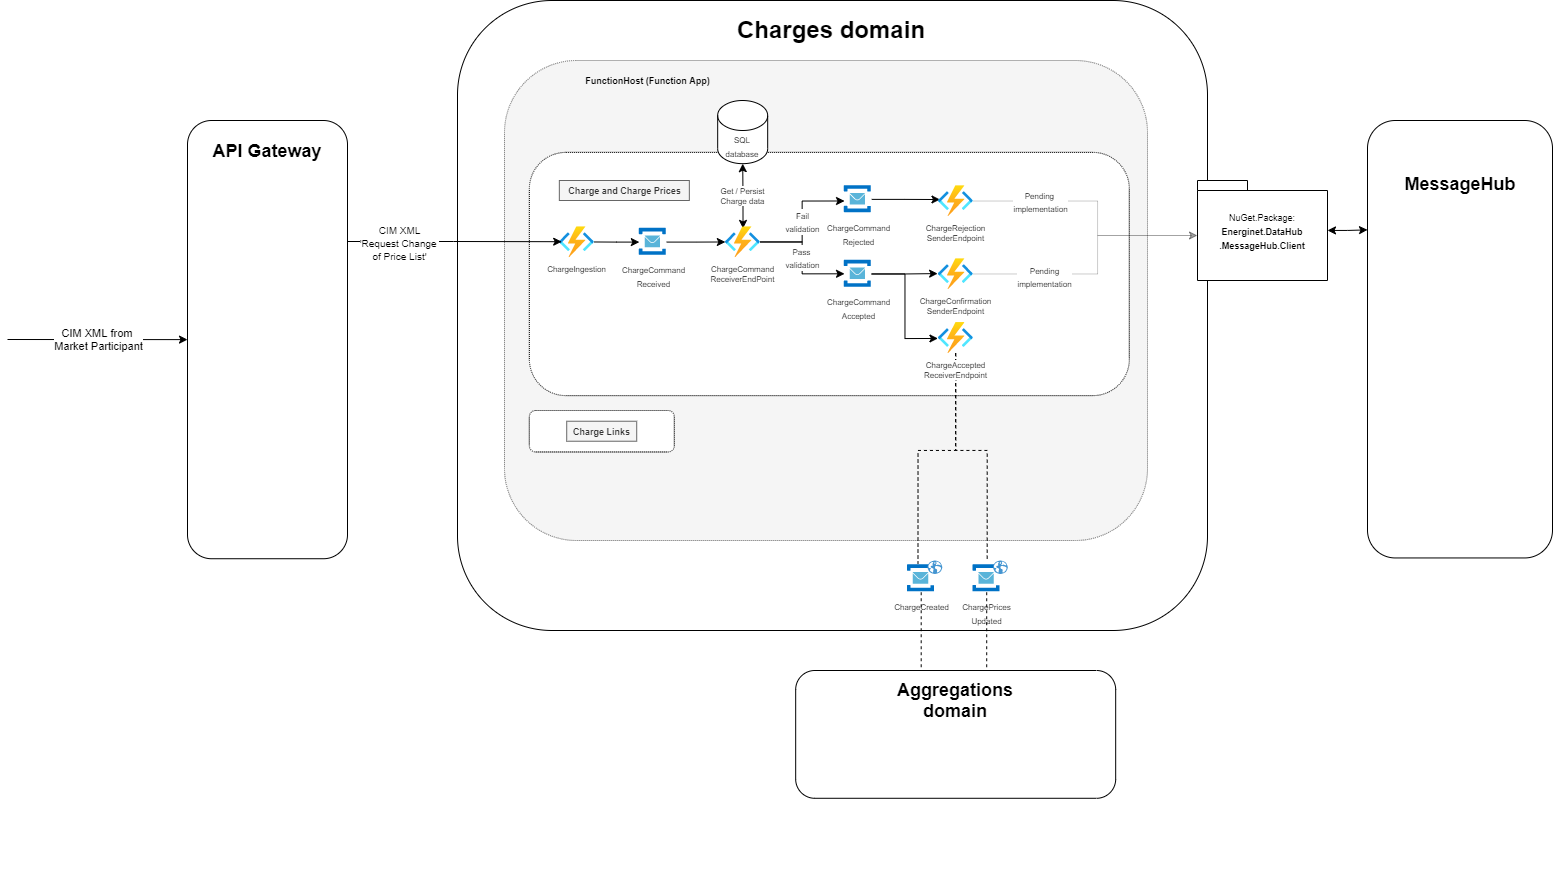
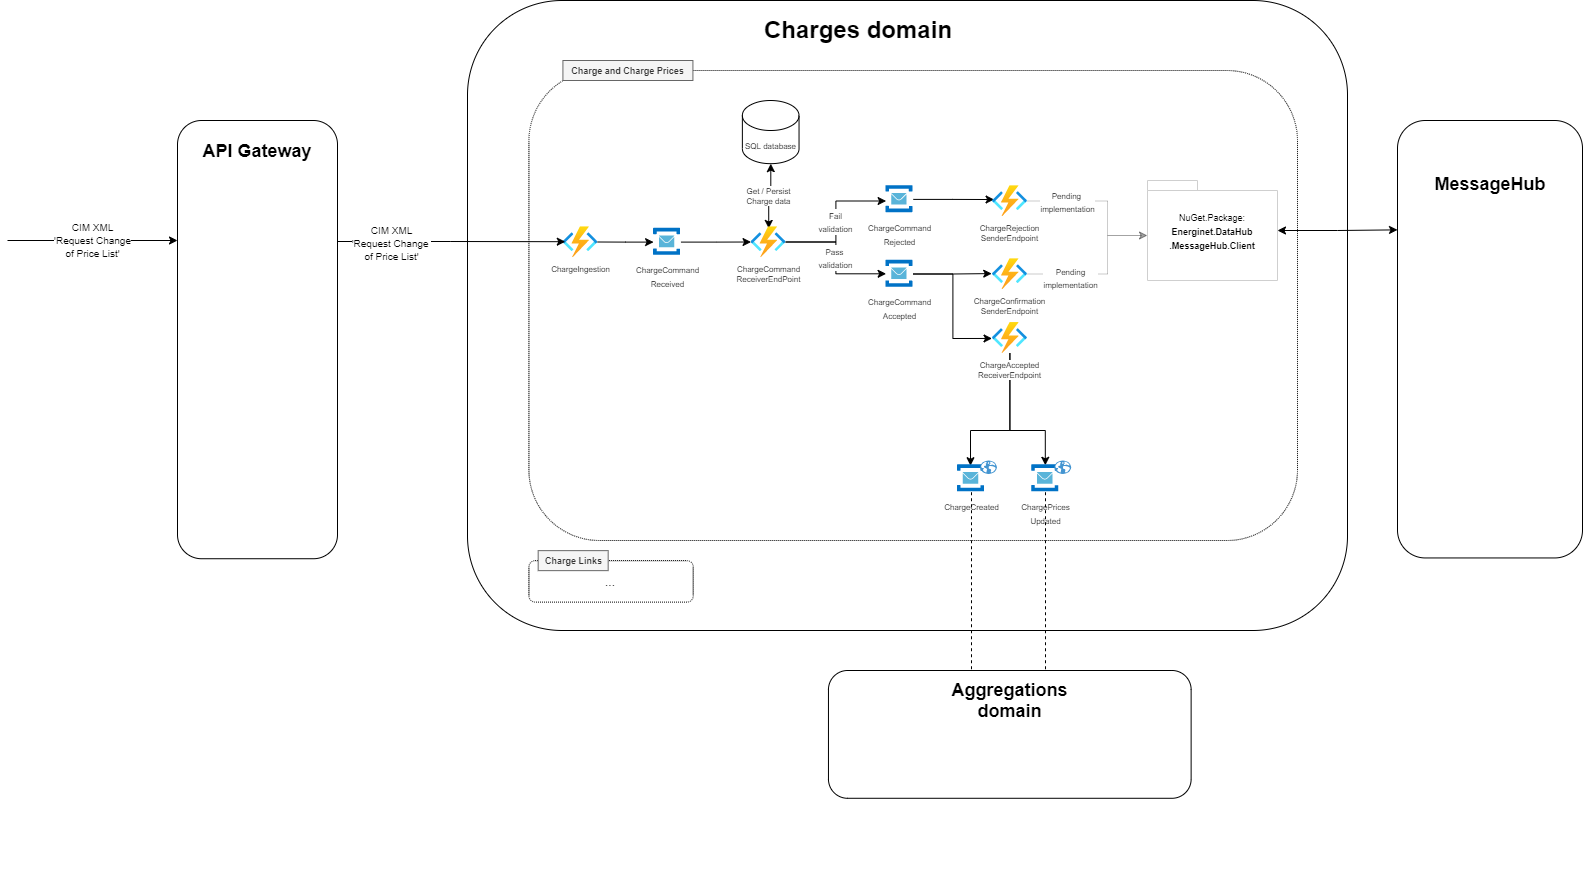
docs: Update arch diagram for Charge Links so it displays the CreateDefaultChargeLinks request-reply setup (#831)
Charge Links architecture diagram has been aligned with recent work.
And some changes were made to both diagrams to ease readability

diff --git a/README.md b/README.md
@@ -34,11 +34,14 @@ The architecture diagrams below illustrate both current state of the Charges dom
 
 The diagrams depict the architecture of `Charge and Charge Prices` and `Charge Links`, respectively.
 
+Please note, all the azure functions displayed in the architecture diagrams are hosted in the same function host.
+Also, some components have singular names while others have plural names. This is intended. The components using plural may need to process a bundle of e.g. charge links to determine whether an operation, e.g. validation, was successful.
+
 ### Charge and charge prices architecture
 
 ![Charge And Charge Prices](ARCHITECTURE-ChargeAndChargePrices.png)
 
-Note: As the integration between the Charges and MessageHub domains is yet to be established, the `ChargeConfirmation` and `ChargeRejection` events are temporarily placed in the Charges domain's Service Bus.
+Please note, as the integration between the Charges and MessageHub domains is yet to be established, the `ChargeConfirmation` and `ChargeRejection` events are temporarily placed in the Charges domain's Service Bus.
 
 ### Charge links architecture
 
